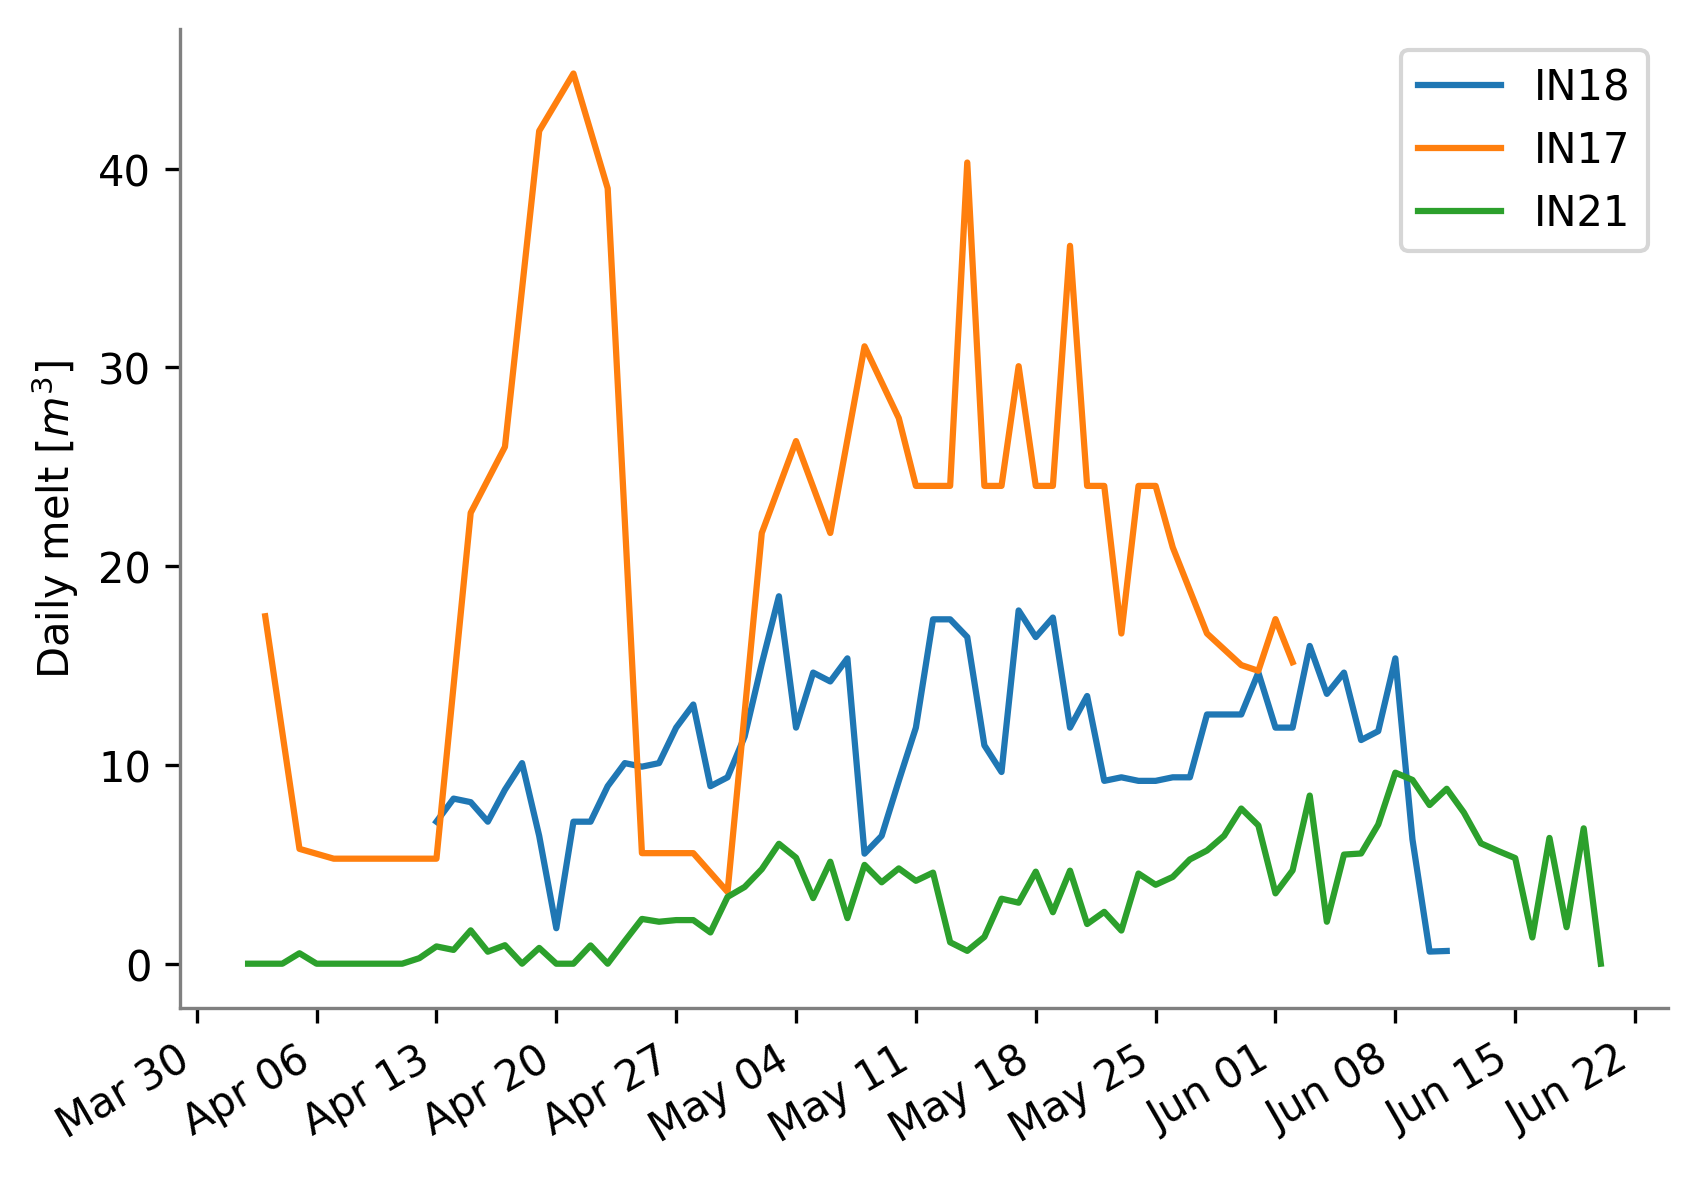
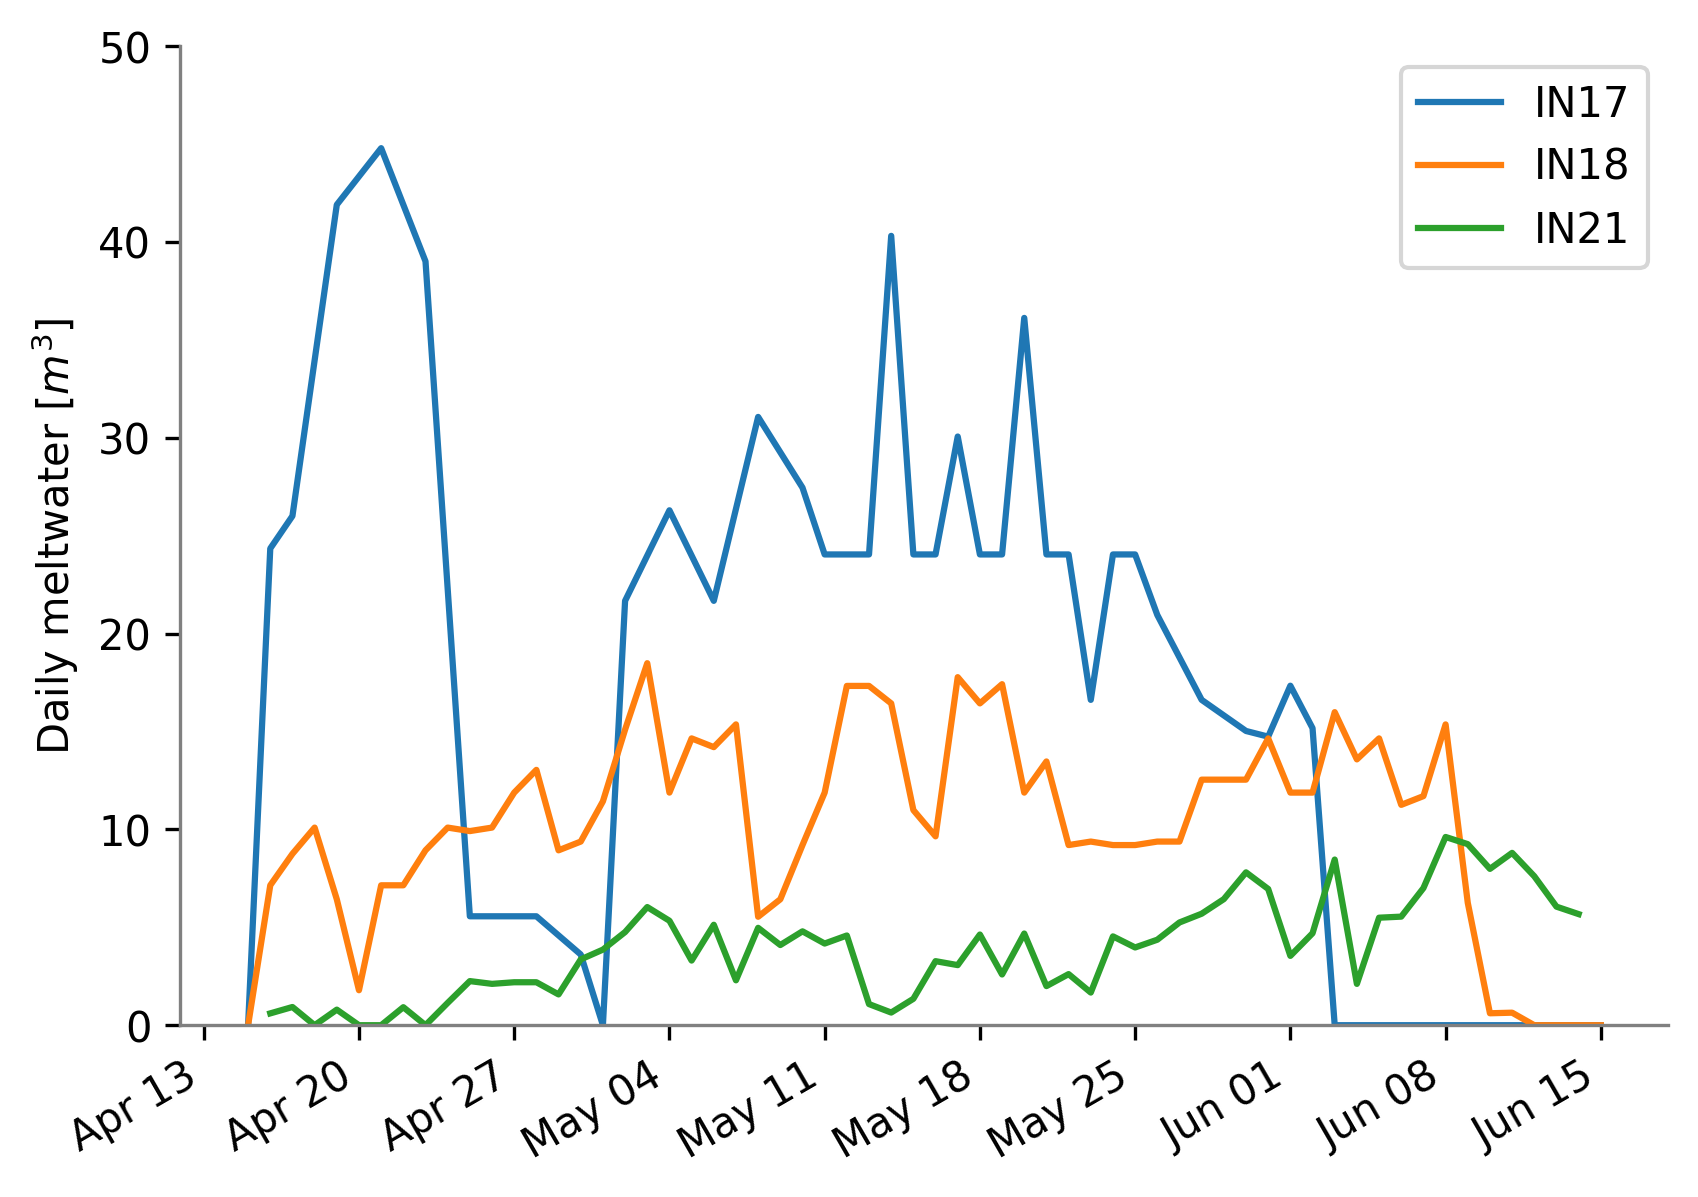
melt fig

diff --git a/src/misc/ladakh_meltwater.py b/src/misc/ladakh_meltwater.py
@@ -61,6 +61,7 @@ if __name__ == "__main__":
 
     result = pd.concat([df, df2])
     result= result.set_index('time', drop=True).sort_index()
+    print(result)
     result['meltwater'] /=1000
     df1 = result[result.index>datetime(2018, 1, 1)].reset_index()
     df2 = result[result.index<datetime(2018, 1, 1)].reset_index()
@@ -82,23 +83,35 @@ if __name__ == "__main__":
     icestupa.read_output()
 
     dfd = icestupa.df.set_index("time").resample("D").sum().reset_index()
-    dfd = dfd[dfd.time > datetime(2021, 4, 1)]
+    dfd = dfd[(dfd.time > datetime(2021, 4, 15)) & (dfd.time < datetime(2021, 6, 15))]
+    df1 = df1[(df1.time > datetime(2021, 4, 15)) & (df1.time < datetime(2021, 6, 15))]
+    df2 = df2[(df2.time > datetime(2021, 4, 15)) & (df2.time < datetime(2021, 6, 15))]
+    df2 = df2.fillna(0)
+    ix = pd.date_range(start=datetime(2021, 4, 15), end=datetime(2021, 6, 15), freq='D')
+    df2 = df2.set_index('time').reindex(ix)
+    df2 = df2.fillna(0)
+    df1 = df1.set_index('time').reindex(ix)
+    df1 = df1.fillna(0)
+    print(f'IN18 median is {df1.meltwater.median()}')
+    print(f'IN17 median is {df2.meltwater.median()}')
+    print(f'IN21 median is {dfd.melted.median()/1000}')
 
     fig, ax = plt.subplots(1, 1)
-    x1 = df1.time
+    x1 = df1.index
     y1 = df1.meltwater
-    x2 = df2.time
+    x2 = df2.index
     y2 = df2.meltwater
     x3 = dfd.time
     y3 = dfd.melted/1000
-    ax.plot(x1,y1, label='IN18')
     ax.plot(x2,y2, label='IN17')
+    ax.plot(x1,y1, label='IN18')
     ax.plot(x3,y3, label='IN21')
     ax.spines["right"].set_visible(False)
     ax.spines["top"].set_visible(False)
     ax.spines["left"].set_color("grey")
     ax.spines["bottom"].set_color("grey")
-    ax.set_ylabel("Daily melt [$m^3$]")
+    ax.set_ylabel("Daily meltwater [$m^3$]")
+    ax.set_ylim([0,50])
     ax.legend()
 
     ax.xaxis.set_major_locator(mdates.WeekdayLocator())
